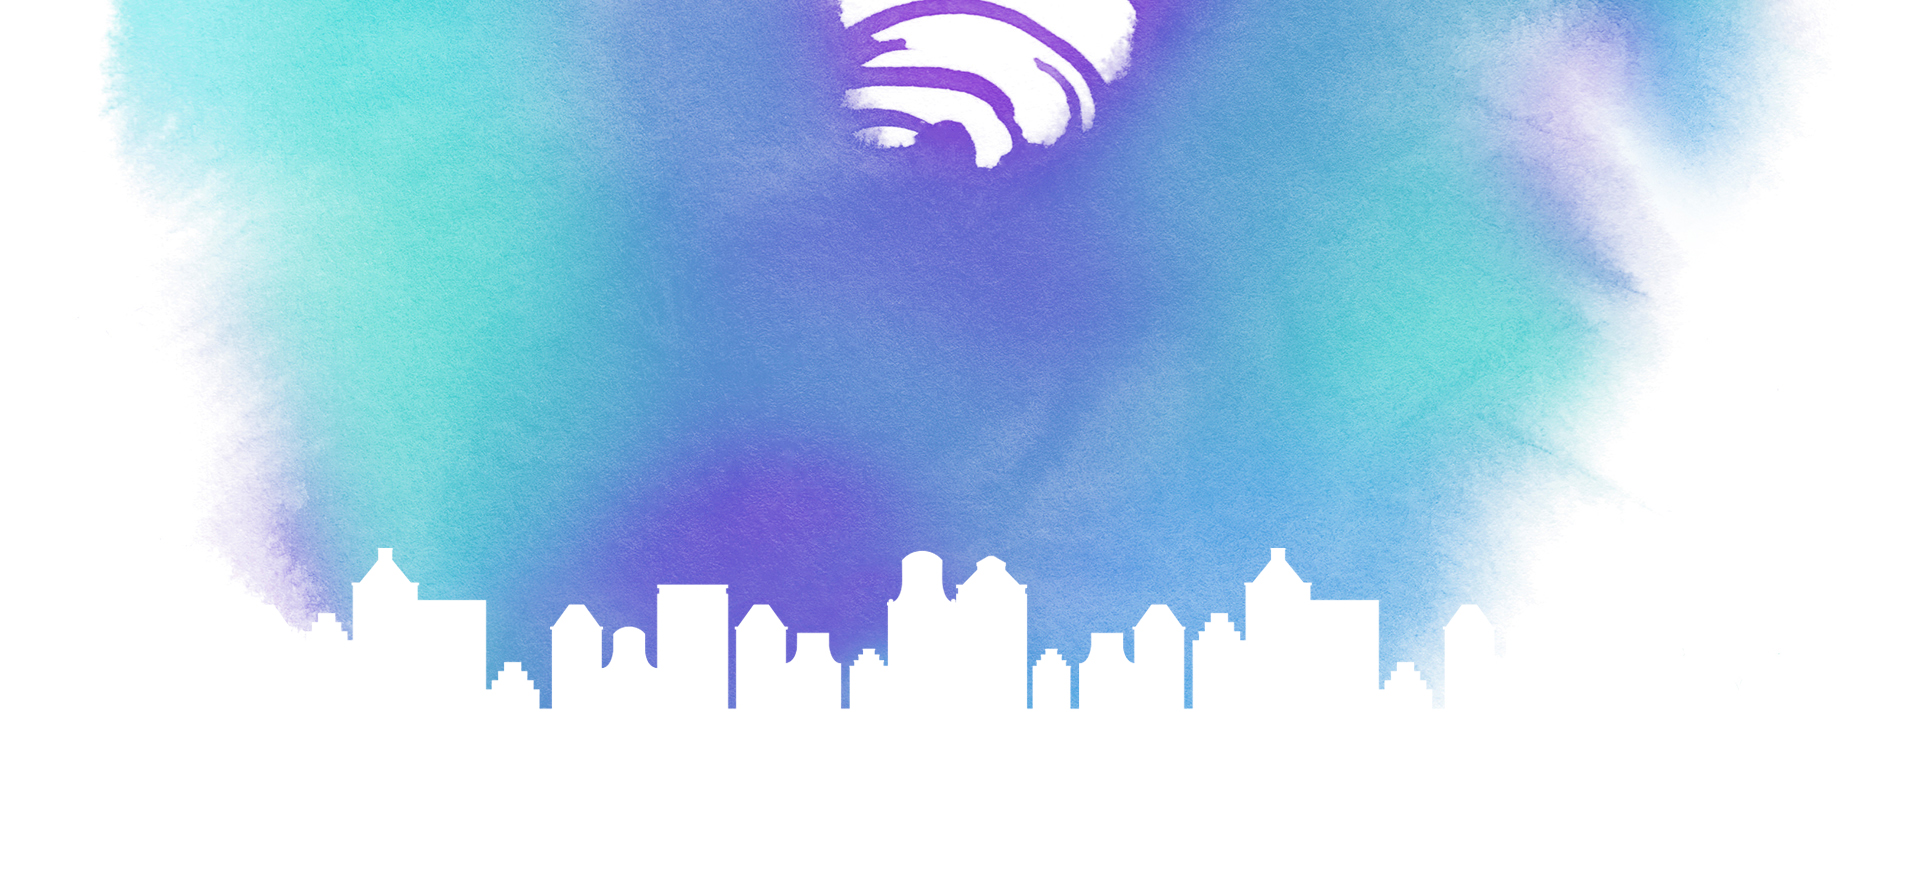
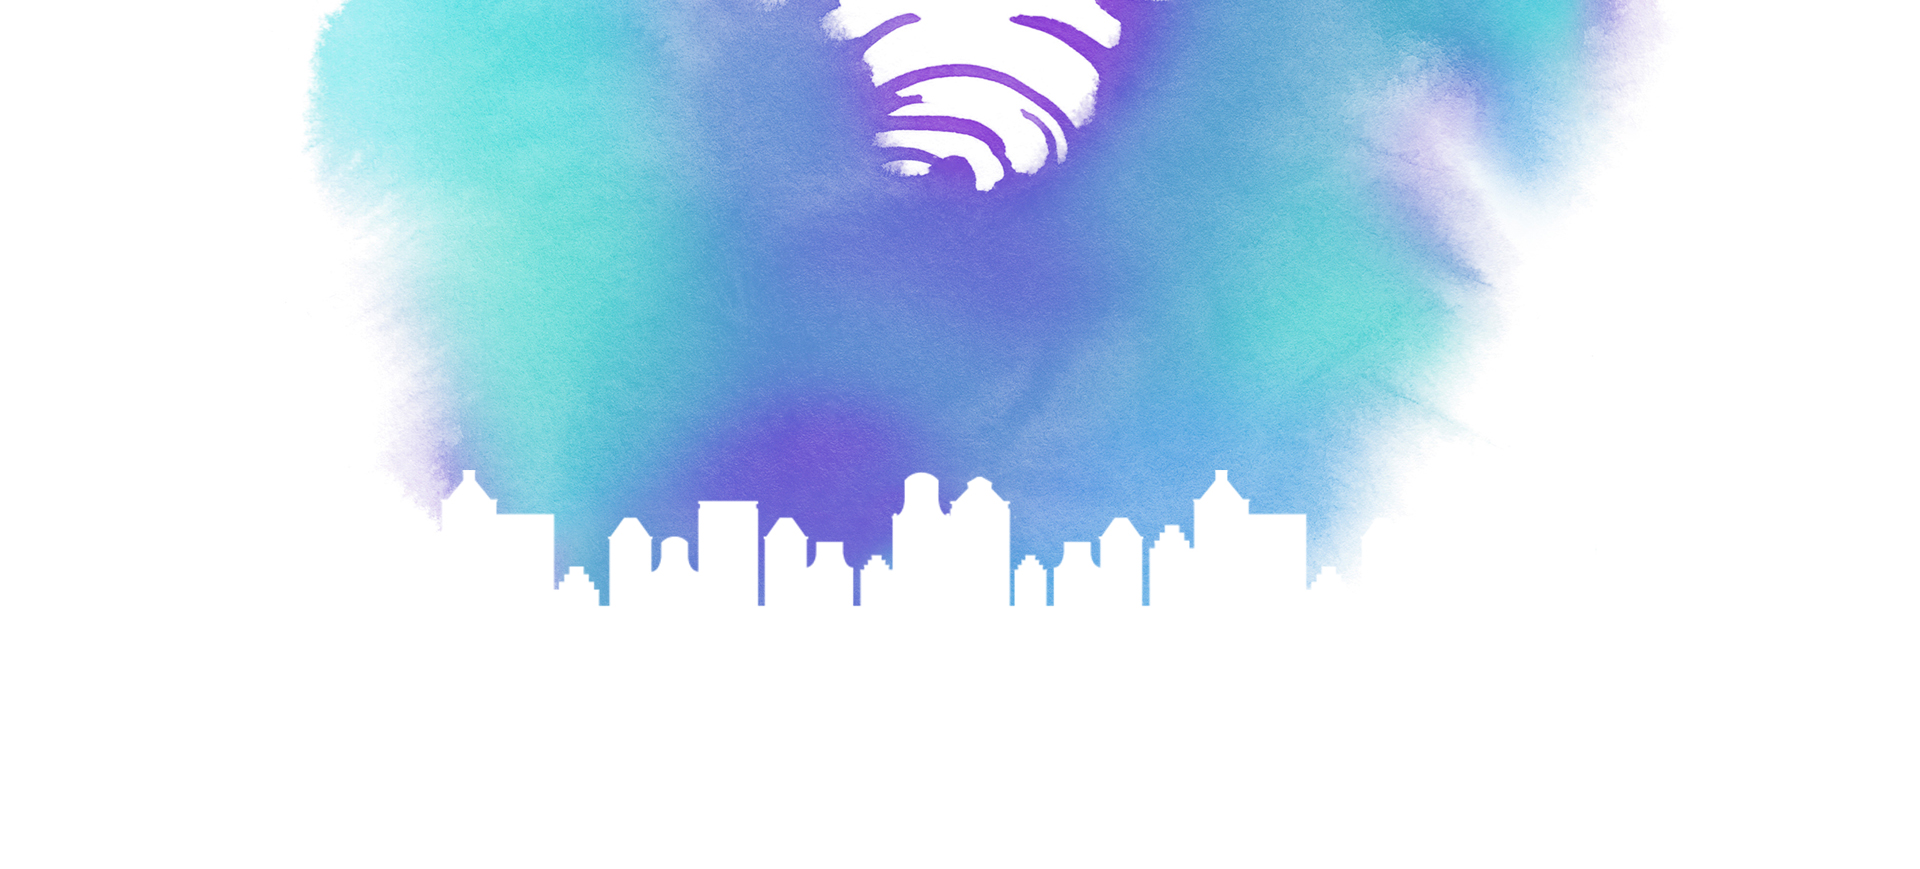
Website updated on Fri Dec  1 10:55:30 CET 2017

diff --git a/resources/index.html b/resources/index.html
@@ -6,7 +6,7 @@
     <meta name="description" content="The Annual International Gathering of Clojure Enthusiasts and Practitioners in the Netherlands!">
     <title>Dutch Clojure Days 2018</title>
     <meta content='Dutch Clojure Days 2017' property='og:title'>
-    <meta content='http://clojuredays.org/img/logo.png' property='og:image'>
+    <meta content='http://clojuredays.org/img/2018/logo.png' property='og:image'>
     <meta content='clojuredays.org' property='og:site_name'>
     <meta content="The Annual International Gathering of Clojure Enthusiasts and Practitioners in the Netherlands!" name="og:description">
     <link rel="stylesheet" media="screen" href="https://fontlibrary.org/face/roboto" type="text/css"/>

diff --git a/resources/carousel.html b/resources/carousel.html
@@ -6,7 +6,7 @@
     <meta name="description" content="The Annual International Gathering of Clojure Enthusiasts and Practitioners in the Netherlands!">
     <title>Dutch Clojure Days 2017</title>
     <meta content='Dutch Clojure Days 2017' property='og:title'>
-    <meta content='http://clojuredays.org/img/logo.png' property='og:image'>
+    <meta content='http://clojuredays.org/img/2018/logo.png' property='og:image'>
     <meta content='clojuredays.org' property='og:site_name'>
     <meta content="The Annual International Gathering of Clojure Enthusiasts and Practitioners in the Netherlands!" name="og:description">
     <link rel="stylesheet" media="screen" href="https://fontlibrary.org/face/now" type="text/css"/>

diff --git a/sass/css/sass.scss b/sass/css/sass.scss
@@ -115,7 +115,7 @@ body {
                 }
             }
 
-            background: url('../img/houses.jpg');
+            background: url('../img/2018/header_background.jpg');
             background-size: cover;
             background-position: center;
         }
